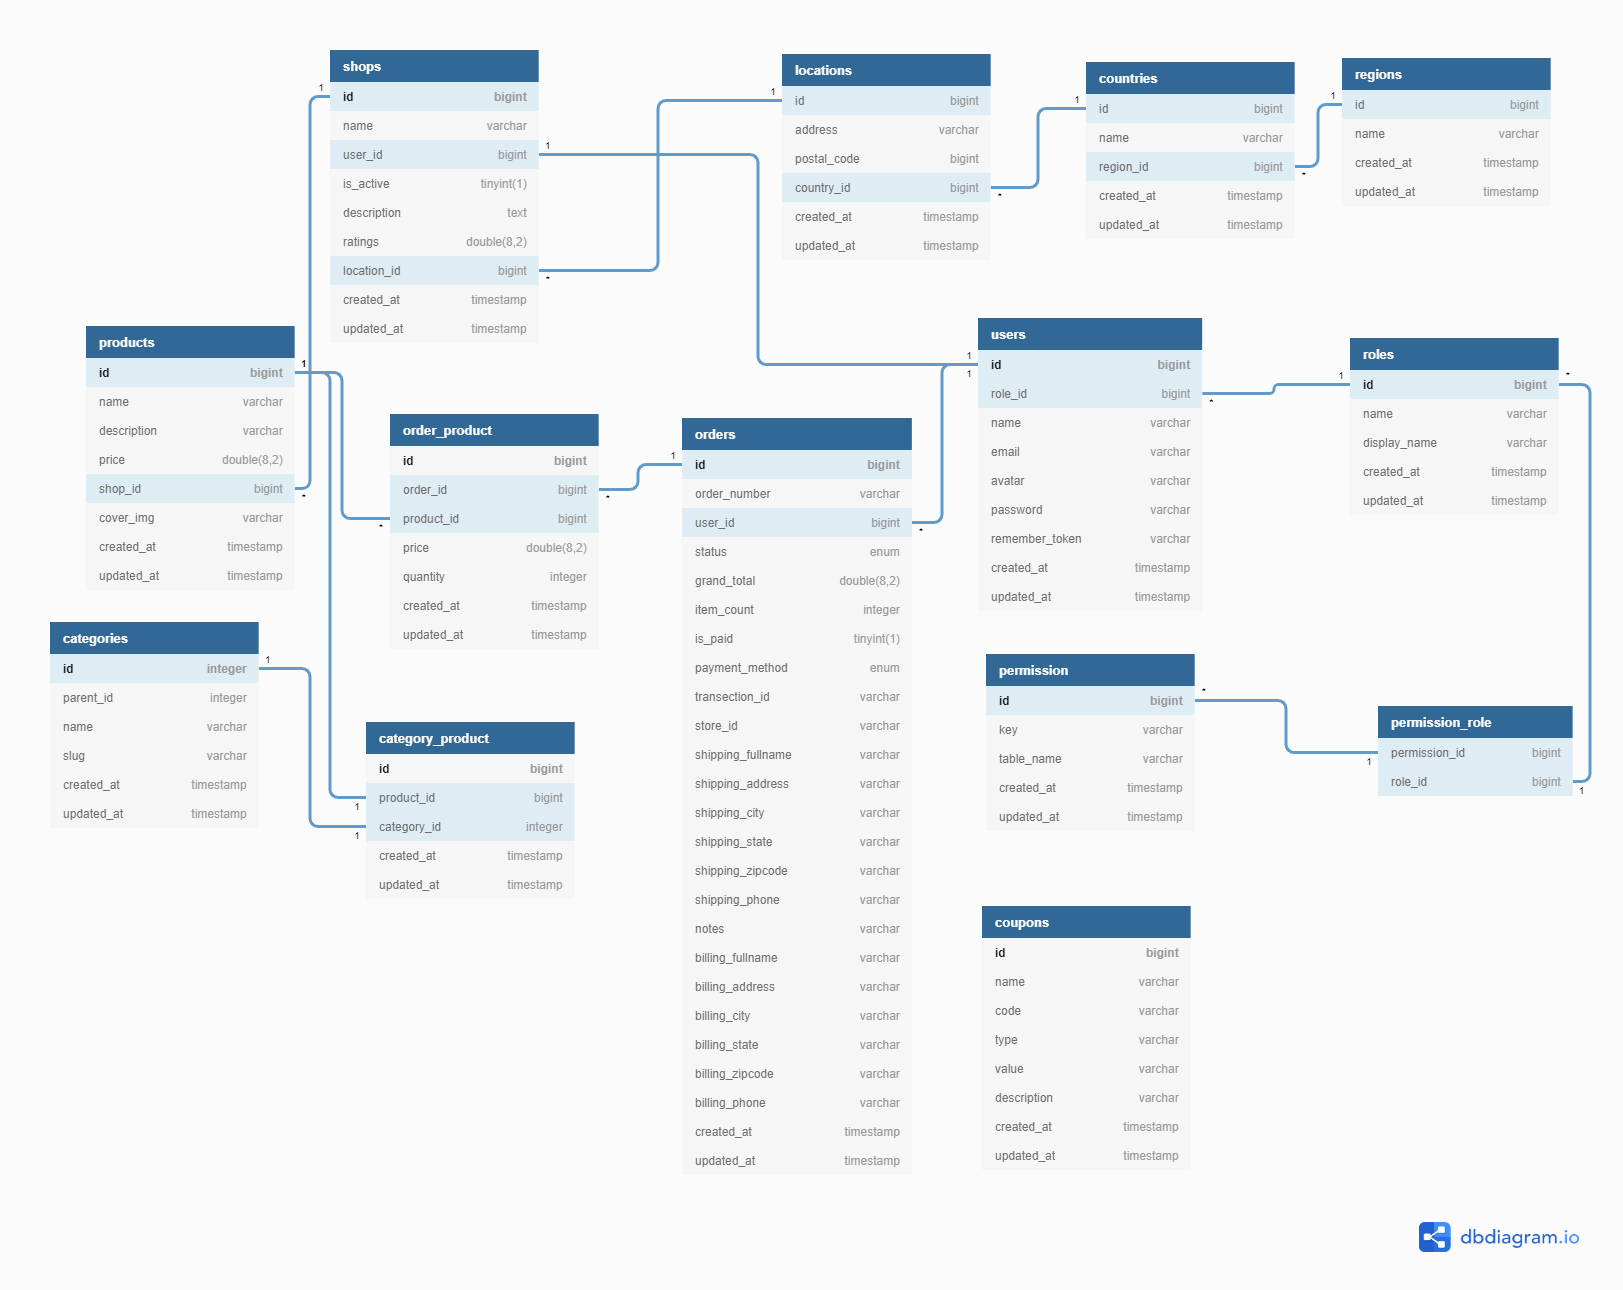
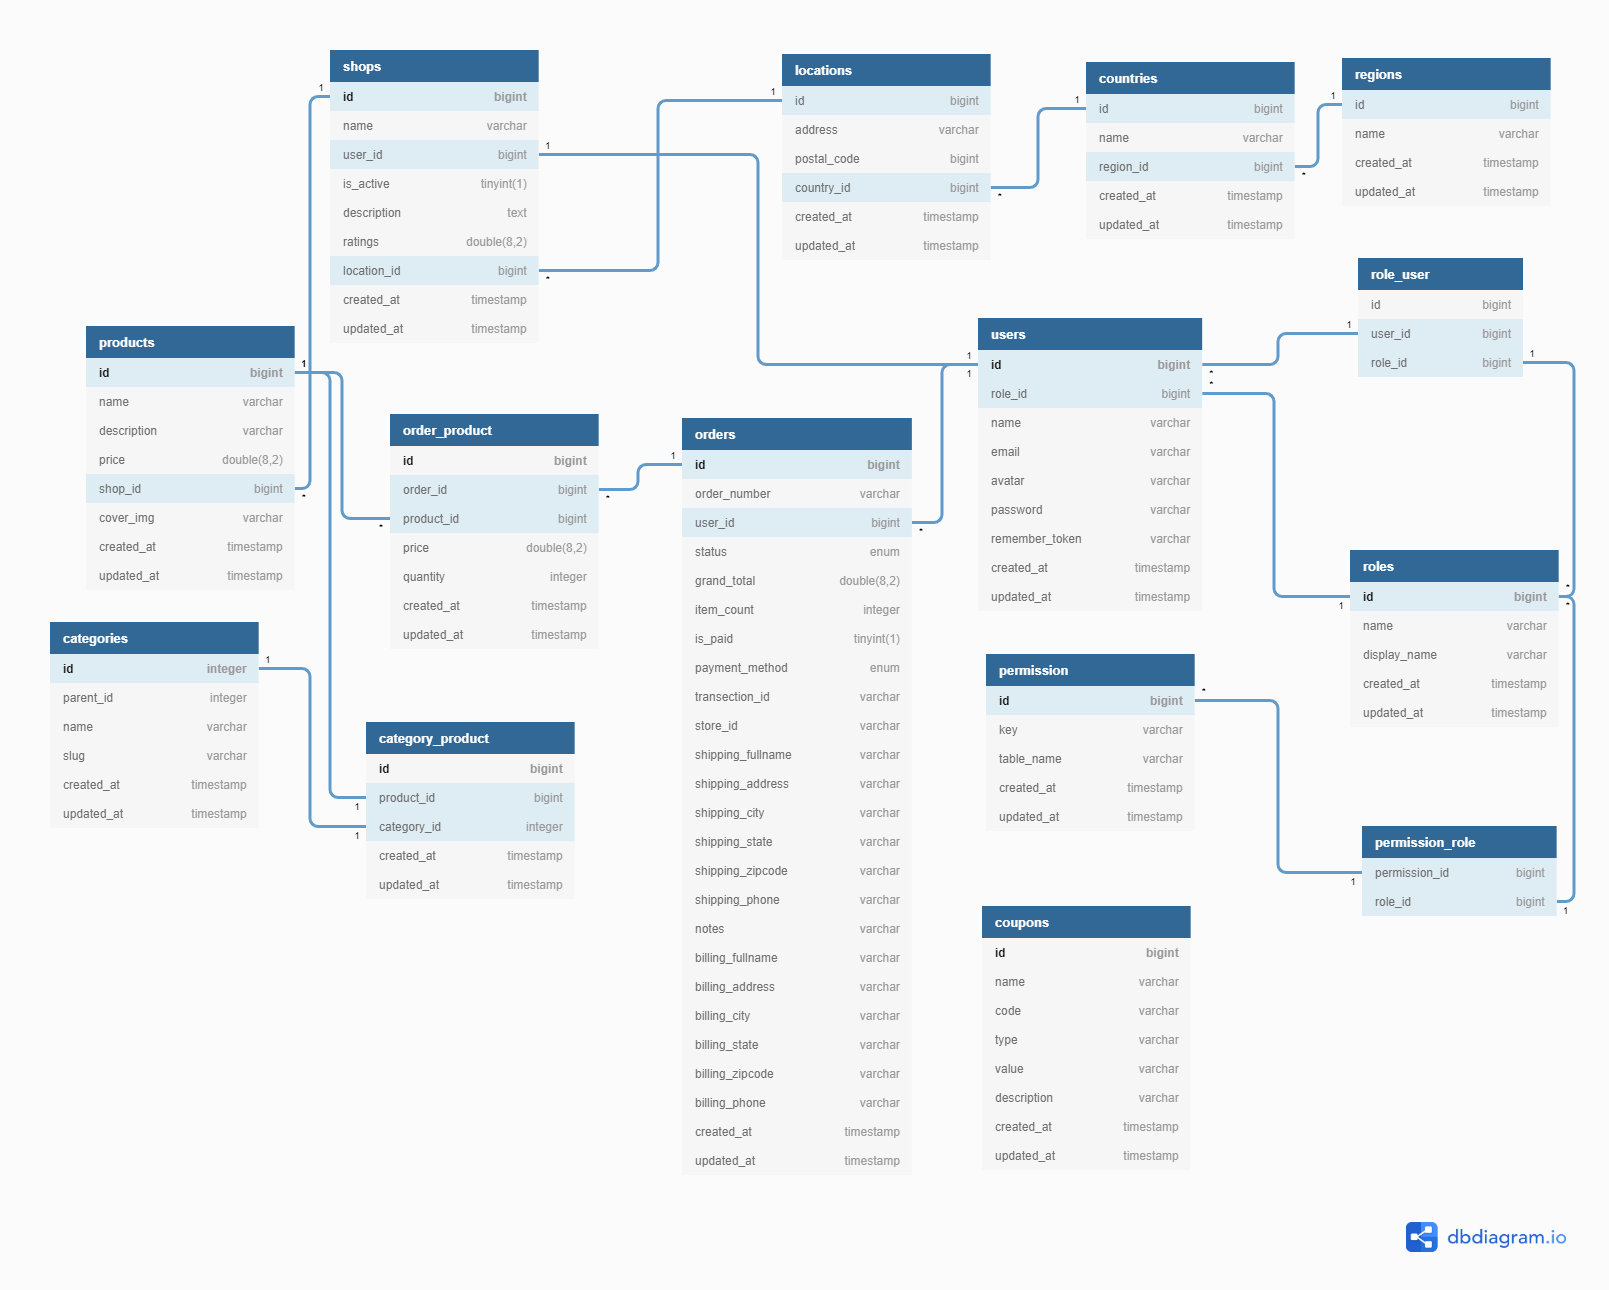
db update, add role_user, SuperAdminSeeder

diff --git a/app/Http/Controllers/SuperAdminController.php b/app/Http/Controllers/SuperAdminController.php
@@ -1,0 +1,85 @@
+<?php
+
+namespace App\Http\Controllers;
+
+use App\SuperAdmin;
+use Illuminate\Http\Request;
+
+class SuperAdminController extends Controller
+{
+    /**
+     * Display a listing of the resource.
+     *
+     * @return \Illuminate\Http\Response
+     */
+    public function index()
+    {
+        //
+    }
+
+    /**
+     * Show the form for creating a new resource.
+     *
+     * @return \Illuminate\Http\Response
+     */
+    public function create()
+    {
+        //
+    }
+
+    /**
+     * Store a newly created resource in storage.
+     *
+     * @param  \Illuminate\Http\Request  $request
+     * @return \Illuminate\Http\Response
+     */
+    public function store(Request $request)
+    {
+        //
+    }
+
+    /**
+     * Display the specified resource.
+     *
+     * @param  \App\SuperAdmin  $superAdmin
+     * @return \Illuminate\Http\Response
+     */
+    public function show(SuperAdmin $superAdmin)
+    {
+        //
+    }
+
+    /**
+     * Show the form for editing the specified resource.
+     *
+     * @param  \App\SuperAdmin  $superAdmin
+     * @return \Illuminate\Http\Response
+     */
+    public function edit(SuperAdmin $superAdmin)
+    {
+        //
+    }
+
+    /**
+     * Update the specified resource in storage.
+     *
+     * @param  \Illuminate\Http\Request  $request
+     * @param  \App\SuperAdmin  $superAdmin
+     * @return \Illuminate\Http\Response
+     */
+    public function update(Request $request, SuperAdmin $superAdmin)
+    {
+        //
+    }
+
+    /**
+     * Remove the specified resource from storage.
+     *
+     * @param  \App\SuperAdmin  $superAdmin
+     * @return \Illuminate\Http\Response
+     */
+    public function destroy(SuperAdmin $superAdmin)
+    {
+        //
+    }
+}

diff --git a/database/migrations/2020_07_19_124334_create_role_user_table.php b/database/migrations/2020_07_19_124334_create_role_user_table.php
@@ -1,0 +1,37 @@
+<?php
+
+use Illuminate\Database\Migrations\Migration;
+use Illuminate\Database\Schema\Blueprint;
+use Illuminate\Support\Facades\Schema;
+
+class CreateRoleUserTable extends Migration
+{
+    /**
+     * Run the migrations.
+     *
+     * @return void
+     */
+    public function up()
+    {
+        Schema::create('role_user', function (Blueprint $table) {
+            $table->id();
+            $table->unsignedBigInteger('user_id');
+            $table->foreign('user_id')->references('id')->on('users')->onDelete('cascade');
+
+            $table->unsignedBigInteger('role_id');
+            $table->foreign('role_id')->references('id')->on('roles')->onDelete('cascade');
+
+            $table->timestamps();
+        });
+    }
+
+    /**
+     * Reverse the migrations.
+     *
+     * @return void
+     */
+    public function down()
+    {
+        Schema::dropIfExists('role_user');
+    }
+}

diff --git a/database/seeds/SuperAdminSeeder.php b/database/seeds/SuperAdminSeeder.php
@@ -1,0 +1,22 @@
+<?php
+
+use App\Role;
+use App\User;
+use Illuminate\Database\Seeder;
+use Illuminate\Support\Facades\DB;
+use Illuminate\Support\Facades\Hash;
+
+class SuperAdminSeeder extends Seeder
+{
+    /**
+     * Run the database seeds.
+     *
+     * @return void
+     */
+    public function run()
+    {
+        $user = User::create(['name' => 'Imrul Hasan', 'email' => 'imrulhasan273@gmail.com', 'password' => Hash::make('imrulhasan')]);
+        $role = Role::create(['name' => 'super_admin', 'display_name' => 'Super Admin']);
+        DB::table('role_user')->insert(['user_id' => $user->id, 'role_id' => $role->id]);
+    }
+}

diff --git a/database/seeds/DatabaseSeeder.php b/database/seeds/DatabaseSeeder.php
@@ -1,5 +1,6 @@
 <?php
 
+
 use Illuminate\Database\Seeder;
 
 class DatabaseSeeder extends Seeder
@@ -12,5 +13,6 @@ class DatabaseSeeder extends Seeder
     public function run()
     {
         // $this->call(UserSeeder::class);
+        $this->call(SuperAdminSeeder::class);
     }
 }

diff --git a/README.md b/README.md
@@ -12,24 +12,26 @@
 
 # Model | Migration | Controller | Policy | Observer
 
-| Models     | Migrations       | Controllers          | Policies | Observers |
-| ---------- | ---------------- | -------------------- | -------- | --------- |
-| -          | -                | Dashboard            | -        | -         |
-| User       | users            | UserController       |          |           |
-| Shop       | shops            | ShopController       |          |           |
-| Location   | locations        | LocationController   |          |           |
-| Country    | countries        | CountryController    |          |           |
-| Region     | regions          | RegionController     |          |           |
-| Role       | roles            | RoleController       |          |           |
-| Permission | permissions      | PermissionController |          |           |
-| -          | permission_role  |                      |          |           |
-| Coupon     | coupons          | CouponController     |          |           |
-| Category   | categories       | CategoryController   |          |           |
-| Product    | products         | ProductController    |          |           |
-| -          | category_product |                      |          |           |
-| Order      | orders           | OrderController      |          |           |
-| -          | order_product    |                      |          |           |
-| -          | -                | CartController       |          |           |
+| Models     | Migrations       | Controllers          | Policies | Observers | Seed             |
+| ---------- | ---------------- | -------------------- | -------- | --------- | ---------------- |
+| -          | -                | Dashboard            | -        | -         | -                |
+| -          | -                | -                    | -        | -         | SuperAdminSeeder |
+| User       | users            | UserController       |          |           |                  |
+| Shop       | shops            | ShopController       |          |           |                  |
+| Location   | locations        | LocationController   |          |           |                  |
+| Country    | countries        | CountryController    |          |           |                  |
+| Region     | regions          | RegionController     |          |           |                  |
+| Role       | roles            | RoleController       |          |           |                  |
+|            | role_user        |                      |          |           |                  |
+| Permission | permissions      | PermissionController |          |           |                  |
+| -          | permission_role  |                      |          |           |                  |
+| Coupon     | coupons          | CouponController     |          |           |                  |
+| Category   | categories       | CategoryController   |          |           |                  |
+| Product    | products         | ProductController    |          |           |                  |
+| -          | category_product |                      |          |           |                  |
+| Order      | orders           | OrderController      |          |           |                  |
+| -          | order_product    |                      |          |           |                  |
+| -          | -                | CartController       |          |           |                  |
 
 ---
 
@@ -428,5 +430,70 @@ protected function create(array $data)
 ---
 
 # **Front End Design Completed**
+
+---
+
+# **Create a Super Admin using Seeder**
+
+---
+
+`SuperAdminSeeder.php`
+
+```php
+<?php
+
+use App\Role;
+use App\User;
+use Illuminate\Database\Seeder;
+use Illuminate\Support\Facades\DB;
+use Illuminate\Support\Facades\Hash;
+
+class SuperAdminSeeder extends Seeder
+{
+    /**
+     * Run the database seeds.
+     *
+     * @return void
+     */
+    public function run()
+    {
+        $user = User::create(['name' => 'Imrul Hasan', 'email' => 'imrulhasan273@gmail.com', 'password' => Hash::make('imrulhasan')]);
+        $role = Role::create(['name' => 'super_admin', 'display_name' => 'Super Admin']);
+        DB::table('role_user')->insert(['user_id' => $user->id, 'role_id' => $role->id]);
+    }
+}
+```
+
+`DatabaseSeeder.php`
+
+```php
+<?php
+
+use Illuminate\Database\Seeder;
+
+class DatabaseSeeder extends Seeder
+{
+    /**
+     * Seed the application's database.
+     *
+     * @return void
+     */
+    public function run()
+    {
+        $this->call(SuperAdminSeeder::class);
+    }
+}
+```
+
+Now run the following commands.
+
+```cmd
+~$ composer dump-autoload
+```
+
+```cmd
+~$ php artisan db:seed
+~$ php artisan migrate:fresh --seed
+```
 
 ---
